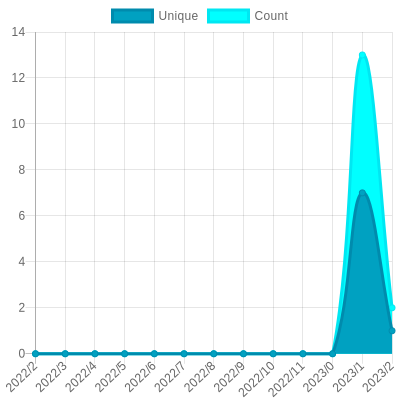
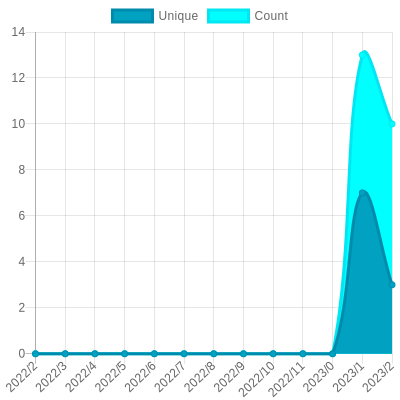
Update views

diff --git a/readme/425244616/year.md b/readme/425244616/year.md
@@ -23,10 +23,10 @@
 			<code>2022/3/1</code>
 		</td>
 		<td>
-			<code>1</code>
+			<code>3</code>
 		</td>
 		<td>
-			<code>2</code>
+			<code>10</code>
 		</td>
 	</tr>
 	<tr>
@@ -164,7 +164,7 @@
 </table>
 
 </details>
-<small><i>Last updated on 2022/3/6 12:26 PM UTC</i></small>
+<small><i>Last updated on 2022/3/6 6:18 PM UTC</i></small>
 
 ## ✂Copy and 📋 Paste
 ### SVG Badge

diff --git a/README.md b/README.md
@@ -101,7 +101,7 @@ The project created and maintained by [gayanvoice](https://github.com/gayanvoice
 	</tr>
 </table>
 
-<small><i>Last updated on 2022/3/6 12:27 PM UTC</i></small>
+<small><i>Last updated on 2022/3/6 6:19 PM UTC</i></small>
 
 ## ✂Copy and 📋 Paste
 ### Total Views Badge

diff --git a/readme/332476137/year.md b/readme/332476137/year.md
@@ -164,7 +164,7 @@
 </table>
 
 </details>
-<small><i>Last updated on 2022/3/6 12:27 PM UTC</i></small>
+<small><i>Last updated on 2022/3/6 6:19 PM UTC</i></small>
 
 ## ✂Copy and 📋 Paste
 ### SVG Badge

diff --git a/readme/443542389/year.md b/readme/443542389/year.md
@@ -164,7 +164,7 @@
 </table>
 
 </details>
-<small><i>Last updated on 2022/3/6 12:26 PM UTC</i></small>
+<small><i>Last updated on 2022/3/6 6:19 PM UTC</i></small>
 
 ## ✂Copy and 📋 Paste
 ### SVG Badge

diff --git a/readme/453386669/year.md b/readme/453386669/year.md
@@ -164,7 +164,7 @@
 </table>
 
 </details>
-<small><i>Last updated on 2022/3/6 12:26 PM UTC</i></small>
+<small><i>Last updated on 2022/3/6 6:19 PM UTC</i></small>
 
 ## ✂Copy and 📋 Paste
 ### SVG Badge

diff --git a/readme/458567713/year.md b/readme/458567713/year.md
@@ -164,7 +164,7 @@
 </table>
 
 </details>
-<small><i>Last updated on 2022/3/6 12:26 PM UTC</i></small>
+<small><i>Last updated on 2022/3/6 6:19 PM UTC</i></small>
 
 ## ✂Copy and 📋 Paste
 ### SVG Badge
